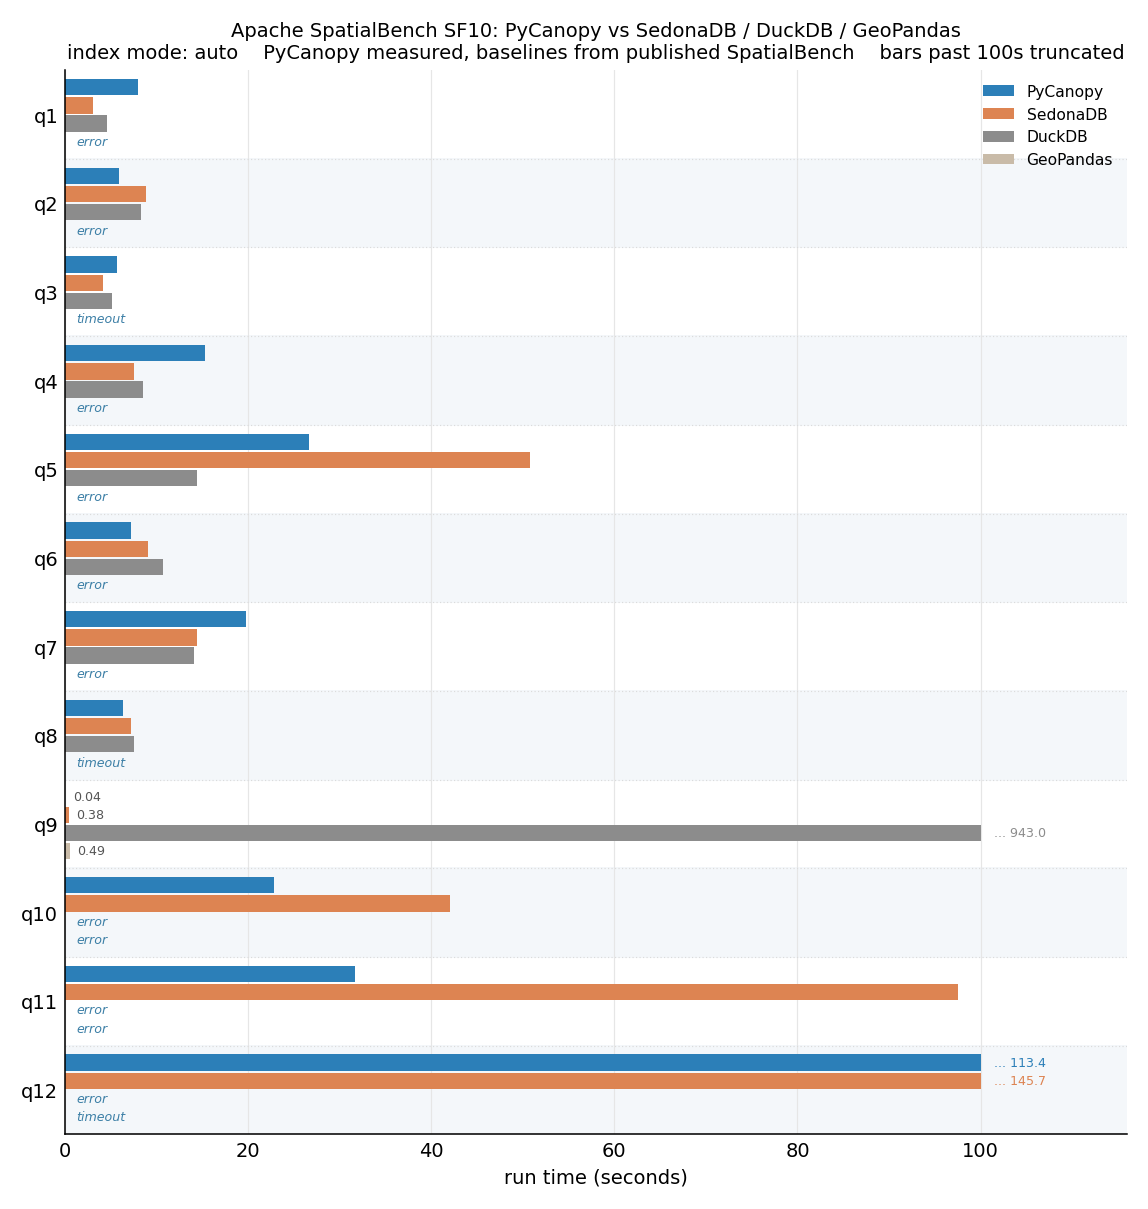
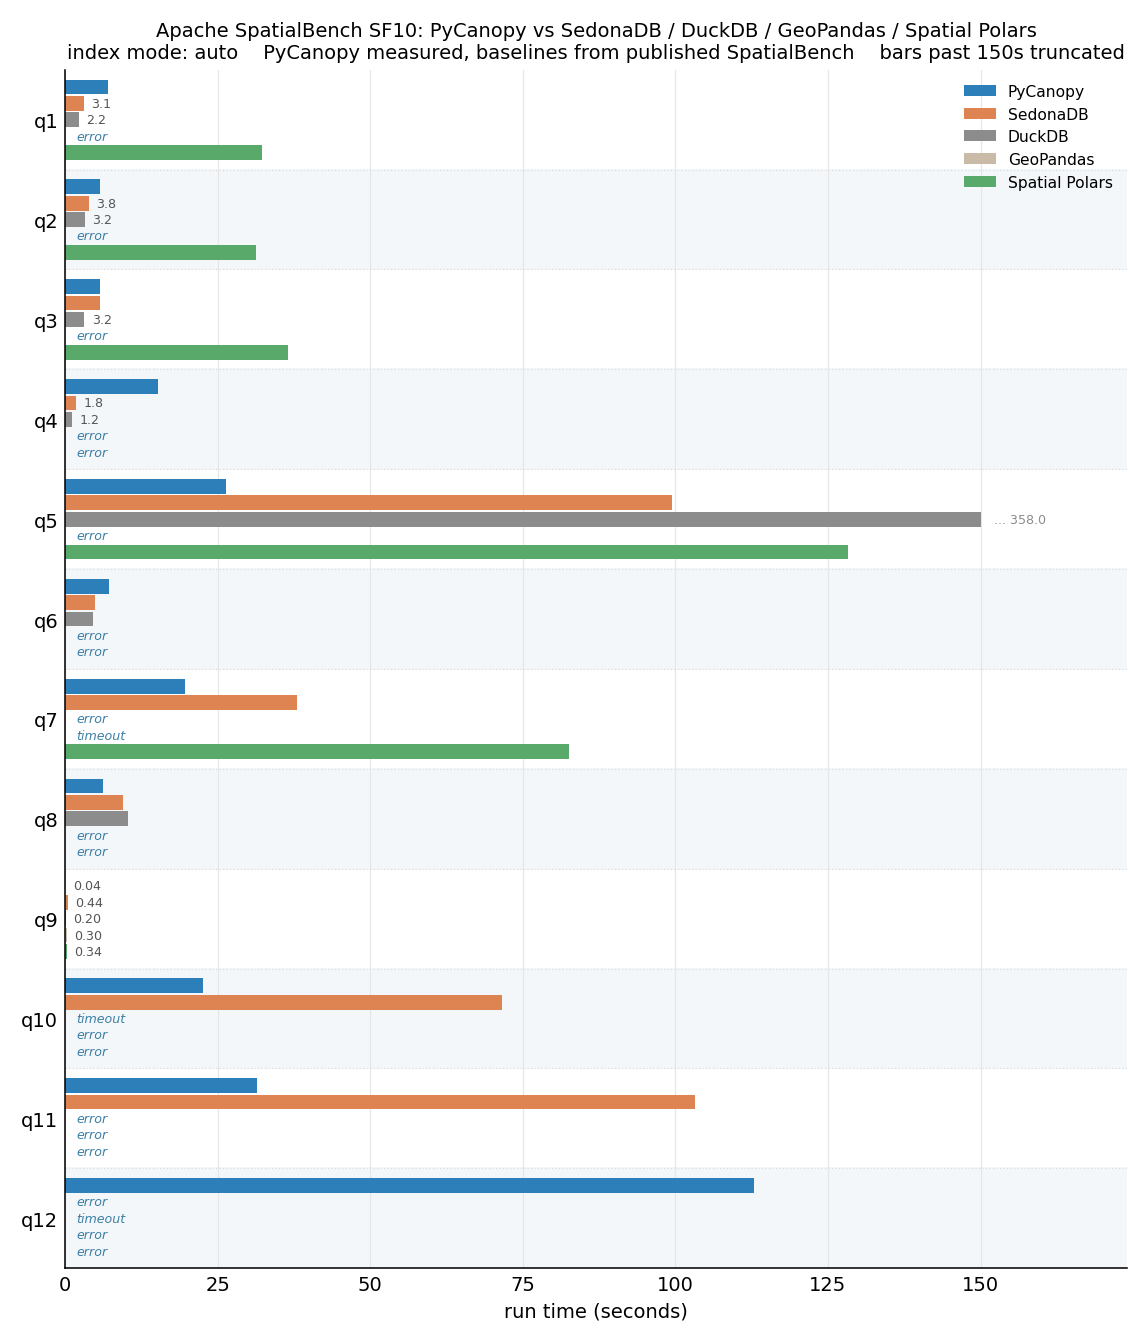
docs+bench: add Spatial Polars to comparison, refresh benchmark claims
- Add Spatial Polars column to comparison table; rework rows to highlight
  PyCanopy's unique differentiators (cost-based index selection, multi-index
  types, aggregate-join without pair materialisation, spatial query planner)
- Update benchmark section: 7/12 at SF1 and SF10 against updated baselines
  (SedonaDB 0.3.0, DuckDB 1.5.4, GeoPandas 1.1.3, Spatial Polars 0.3.0);
  add snapshot caveat linking to apache/sedona-spatialbench run #152
- Refresh SF1 and SF10 charts with five-engine layout

Changed region(s): [[0.0, 0.0, 0.9756, 0.9793], [0.5793, 0.7957, 0.8537, 0.8263]]

diff --git a/README.md b/README.md
@@ -14,14 +14,14 @@
 ---
 
 > [!NOTE]
-> **State of the art on [Apache SpatialBench](https://sedona.apache.org/spatialbench/single-node-benchmarks/):** the fastest engine on 10 of 12 queries at SF1 and 7 of 12 at SF10, ahead of Apache SedonaDB, DuckDB, and GeoPandas.
+> **State of the art on [Apache SpatialBench](https://github.com/apache/sedona-spatialbench):** fastest on 7 of 12 queries at both SF1 and SF10, beating SedonaDB, DuckDB, GeoPandas, and Spatial Polars on every heavy spatial join.
 
 Apache SpatialBench is the standard single-node spatial-analytics benchmark: 12 queries over millions of trips and zones. PyCanopy runs the whole suite in Polars-like syntax, never dropping to SQL or a separate engine.
 
 <p align="center">
   <img src="assets/spatialbench_sf1_auto.png" alt="PyCanopy vs SedonaDB, DuckDB, and GeoPandas on Apache SpatialBench SF1" width="100%"/>
 </p>
-<p align="center"><sub>Apache SpatialBench SF1 · lower is better · linear axis, bars past the cap truncated with their value · TIMEOUT / ERROR annotated</sub></p>
+<p align="center"><sub>Apache SpatialBench SF1 · lower is better · bars past the cap truncated with their value · TIMEOUT / ERROR annotated</sub></p>
 
 ---
 
@@ -50,20 +50,21 @@ Every spatial option for a Polars user asks you to give something up:
 - **GeoPandas** is eager and pandas-based. Its one index (STRtree) is opt-in, and a join larger than memory simply fails.
 - **DuckDB spatial** is fast and out-of-core, but you leave Polars for SQL and create the R-tree index by hand.
 - **SedonaDB** is a capable spatial engine, but it is a separate SQL engine rather than a Polars-native API.
+- **Spatial Polars** provides polars-like syntax but lacks sophisticated optimizations + indexing.
 
 PyCanopy's principle is to stay inside Polars and add a real query planner. You declare spatial ops in any order. It reorders them, fuses adjacent predicates, pushes projections into joins, and uses a cost model to decide per query whether to build an index at all (and which kind).
 
 How the options compare:
 
-|                                          | PyCanopy | GeoPandas   | DuckDB spatial | SedonaDB | GeoPolars |
-|:-----------------------------------------|:--------:|:-----------:|:--------------:|:--------:|:---------:|
-| Runs inside Polars (no SQL, no convert)  | ✓        | ✗           | ✗ (SQL)        | ✗ (SQL)  | ✓         |
-| Lazy, declarative API                    | ✓        | ✗ (eager)   | SQL            | SQL      | ✓         |
-| Automatic index, no manual setup         | ✓        | ✗ (manual)  | ✗ (manual)     | ✓        | ✗         |
-| Cost-based index vs scan, per query      | ✓        | ✗           | ✗              | ✗        | ✗         |
-| kNN join built in                        | ✓        | ✓ (nearest) | ✗              | ✓        | ✗         |
-| Within-distance / point-in-polygon join  | ✓        | ✓           | ✓              | ✓        | ✗         |
-| Larger-than-RAM joins                     | ✓        | ✗           | ✓              | ✓        | ✗         |
+|                                                   | PyCanopy | GeoPandas      | DuckDB spatial | SedonaDB | Spatial Polars |
+|:--------------------------------------------------|:--------:|:--------------:|:--------------:|:--------:|:--------------:|
+| Polars-native, no SQL or conversion               | ✓        | ✗              | ✗ (SQL)        | ✗ (SQL)  | ✓              |
+| Spatial query planner (reorder, fuse, push)       | ✓        | ✗              | ✗              | ✓        | ✗              |
+| Cost-based index vs scan, per query               | ✓        | ✗              | ✗              | ✗        | ✗              |
+| Multi-index types, auto-selected per query        | ✓        | ✗ (STRtree)    | ✗ (R-tree)     | ✗ (R-tree) | ✗ (STRtree)  |
+| kNN join                                          | ✓        | ✓ (nearest)    | ✗              | ✓        | ✓ (centroid)   |
+| Aggregate-join without materialising pairs        | ✓        | ✗              | ✗              | ✗        | ✗              |
+| Larger-than-RAM joins                             | ✓        | ✗              | ✓              | ✓        | ✗              |
 
 ---
 
@@ -344,16 +345,16 @@ sf.engine.flush()
 
 ### Apache SpatialBench
 
-Run on a single `m7i.2xlarge` (8 vCPU, 32 GB), the same instance as the published [SedonaDB / DuckDB / GeoPandas numbers](https://sedona.apache.org/spatialbench/single-node-benchmarks/). PyCanopy is measured with `index_mode="auto"`; the other engines are the published baseline.
+Run on a single `m7i.2xlarge` (8 vCPU, 32 GB), the same hardware used by [Apache SpatialBench](https://github.com/apache/sedona-spatialbench). PyCanopy is measured live with `index_mode="auto"`; SedonaDB 0.3.0, DuckDB 1.5.4, GeoPandas 1.1.3, and Spatial Polars 0.3.0 are snapshot numbers from [run #152](https://github.com/apache/sedona-spatialbench/actions/runs/27864209643) (2026-06-20).
 
-**SF1** (~6M trips). PyCanopy is the fastest of the four engines on 10 of 12 queries, losing only q1 (to SedonaDB) and q5 (to DuckDB), and wins the heavy cross-zone joins q10-q12 by up to 4x over SedonaDB.
+**SF1** (~6M trips). PyCanopy wins 7 of 12, taking all heavy spatial joins (q5, q7–q12). DuckDB wins q1–q4; SedonaDB wins q6.
 
 <p align="center">
   <img src="assets/spatialbench_sf1_auto.png" alt="PyCanopy vs SedonaDB, DuckDB, and GeoPandas on Apache SpatialBench SF1" width="100%"/>
 </p>
 <p align="center"><sub>Apache SpatialBench SF1 · lower is better · linear axis, bars past the cap truncated with their value · TIMEOUT / ERROR annotated</sub></p>
 
-**SF10** (~60M trips). PyCanopy is fastest on 7 of 12. q12 returns a result larger than the 32 GB box, so it streams the join and spills the sort to disk, completing where DuckDB errors and GeoPandas times out.
+**SF10** (~60M trips). PyCanopy wins 7 of 12 and is the only engine to finish all 12. SedonaDB errors on q12, DuckDB OOMs on q7/q11 and times out on q10/q12, GeoPandas and Spatial Polars OOM on most queries. q12 returns a result larger than 32 GB; PyCanopy streams the join and spills the sort to disk.
 
 <p align="center">
   <img src="assets/spatialbench_sf10_auto.png" alt="PyCanopy vs SedonaDB, DuckDB, and GeoPandas on Apache SpatialBench SF10" width="100%"/>
@@ -430,9 +431,9 @@ Building wins once `Q` passes roughly `log N`. A one-off lookup scans; a join wi
 
 `index_mode`, set per frame, picks how the estimate is used:
 
-- **`eager`** (default): always build the selected index
-- **`auto`**: build only when the estimate beats a scan for this `Q`
-- **`none`**: always scan
+- **`eager`** (default): always build the selected index.
+- **`auto`**: build only when the estimate beats a scan for this `Q`.
+- **`none`**: always scan.
 
 ### Index management
 